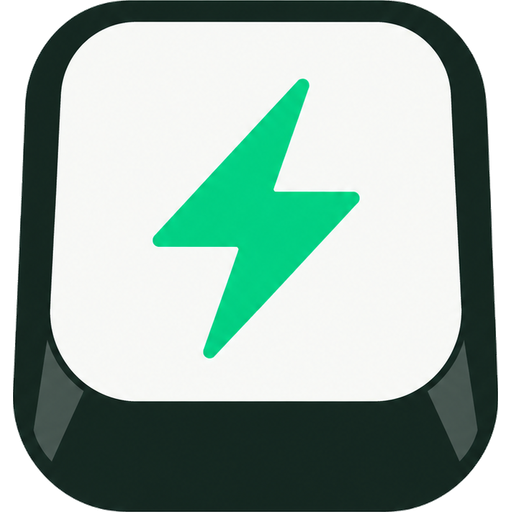
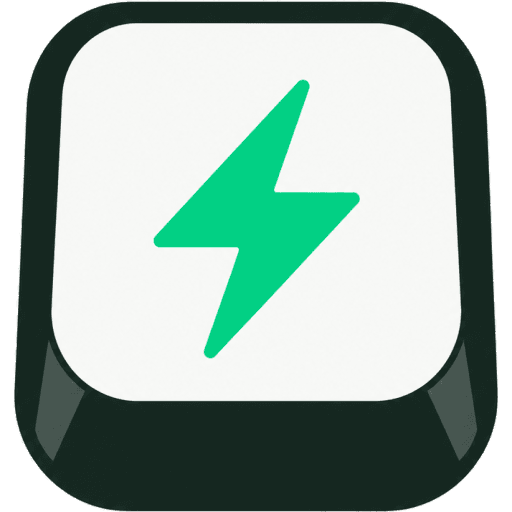
feat: resolved deploy

diff --git a/components/brand/BrandLockup.tsx b/components/brand/BrandLockup.tsx
@@ -4,13 +4,15 @@ import Image from "next/image";
  * Marca de la app: icono oficial + wordmark **TypeRush**.
  *
  * El nombre se escribe SIEMPRE así, unido y con T y R mayúsculas. El icono es
- * `public/brand/typerush-icon.png` tal cual: sin recolorear, sin deformar y sin
- * máscara circular (relación 1:1 y `object-contain`).
+ * `public/brand/typerush-icon.webp` (mismo dibujo que el PNG maestro, sin
+ * recolorear, sin deformar y sin máscara circular — relación 1:1 y
+ * `object-contain`). WebP ~14 KB frente a ~200 KB del PNG: MiniPay pide
+ * SVG/WebP para assets de la miniapp.
  *
- * ⚠ El PNG lleva ALFA REAL y va recortado al dibujo. El original era colorType
- * 2 (RGB, sin canal alfa) con el lienzo entero pintado de #f7f8f6 y casi la
- * mitad de margen: sobre el fondo de la app (#f2f5f3) eso se veía como un
- * cuadrado blanco alrededor del rayo. El arreglo es del archivo, NO del
+ * ⚠ El archivo lleva ALFA REAL y va recortado al dibujo. El original era
+ * colorType 2 (RGB, sin canal alfa) con el lienzo entero pintado de #f7f8f6 y
+ * casi la mitad de margen: sobre el fondo de la app (#f2f5f3) eso se veía como
+ * un cuadrado blanco alrededor del rayo. El arreglo es del archivo, NO del
  * contenedor — este `span` no pinta fondo, borde, sombra ni relleno, y no debe
  * empezar a hacerlo para tapar un problema que es de la imagen. (La cara clara
  * de la tecla sí es parte del logo y se queda.)
@@ -54,7 +56,7 @@ export default function BrandLockup({
       {/* `width`/`height` fijan la relación 1:1 y el srcset (96/192 px cubren
           38 px a 3x); el tamaño real lo manda el `style`. */}
       <Image
-        src="/brand/typerush-icon.png"
+        src="/brand/typerush-icon.webp"
         alt=""
         width={96}
         height={96}

diff --git a/app/layout.tsx b/app/layout.tsx
@@ -41,13 +41,13 @@ export async function generateMetadata(): Promise<Metadata> {
       title,
       description,
       url: absoluteUrl("/"),
-      images: [{ url: "/icon.png", width: 512, height: 512, alt: SITE_NAME }],
+      images: [{ url: "/icon.webp", width: 512, height: 512, alt: SITE_NAME }],
     },
     twitter: {
       card: "summary_large_image",
       title,
       description,
-      images: ["/icon.png"],
+      images: ["/icon.webp"],
     },
     other: {
       "talentapp:project_verification":

diff --git a/app/manifest.ts b/app/manifest.ts
@@ -12,7 +12,8 @@ export default function manifest(): MetadataRoute.Manifest {
     background_color: "#f2f5f3",
     theme_color: "#00d18f",
     icons: [
-      { src: "/icon.png", sizes: "512x512", type: "image/png" },
+      { src: "/icon.webp", sizes: "512x512", type: "image/webp" },
+      // Apple Touch Icon sigue en PNG: iOS no acepta WebP aquí.
       { src: "/apple-icon.png", sizes: "180x180", type: "image/png" },
     ],
   };

diff --git a/components/brand/TypeRushBolt.tsx b/components/brand/TypeRushBolt.tsx
@@ -1,6 +1,6 @@
 /**
  * Rayo de TypeRush: la MISMA silueta del rayo del logo oficial
- * (`public/brand/typerush-icon.png`), redibujada como SVG para los tamaños
+ * (`public/brand/typerush-icon.webp`), redibujada como SVG para los tamaños
  * pequeños donde el pedestal del icono dejaría de leerse.
  *
  * Es el recurso de marca que ocupa el lugar de la abeja de Avíspate: cabecera,

diff --git a/CLAUDE.md b/CLAUDE.md
@@ -252,8 +252,10 @@ V2 still holds pots that must be won by real players first — see
   `v3_settlements` (PK = day+mode → the robot can't pay twice; states
   pending/processing/paid/failed/rollover with attempts and last_error). Amounts
   are `numeric(78,0)` — COPm's 18 decimals overflow bigint.
-- Direct `@x402/*` deps were removed: TypeRush never imports them. They may
-  still appear transitively via wagmi → `@coinbase/cdp-sdk`.
+- `@x402/core` · `@x402/evm` · `@x402/svm` stay as direct deps even though
+  TypeRush never imports them: they are optional peers of `@coinbase/cdp-sdk`
+  (RainbowKit → wagmi → baseAccount), and without them Turbopack fails the
+  Vercel build with "Module not found: Can't resolve '@x402/…'".
 
 ### V3 play flow — wired, behind the flag (2026-08-04)
 
